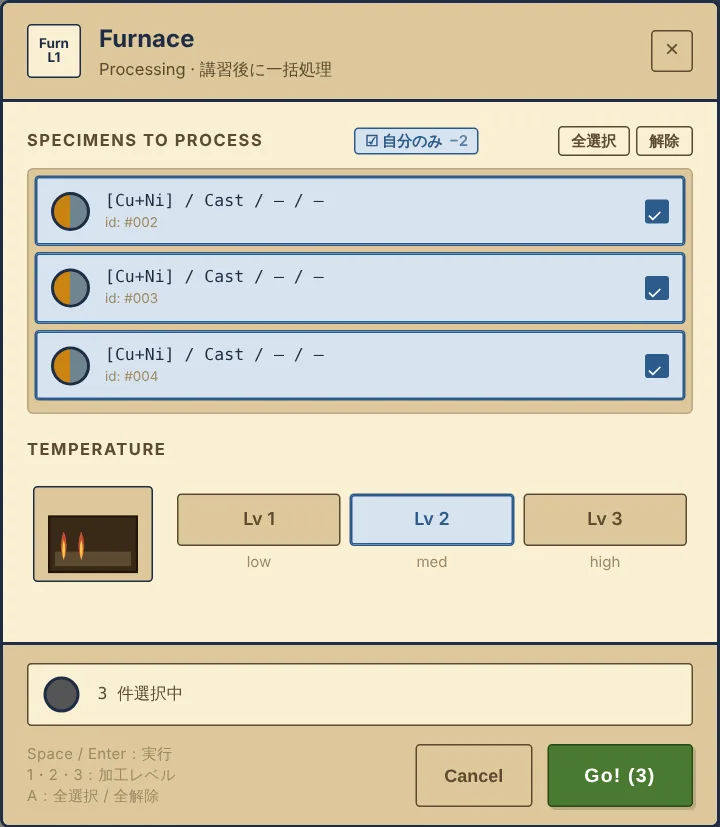
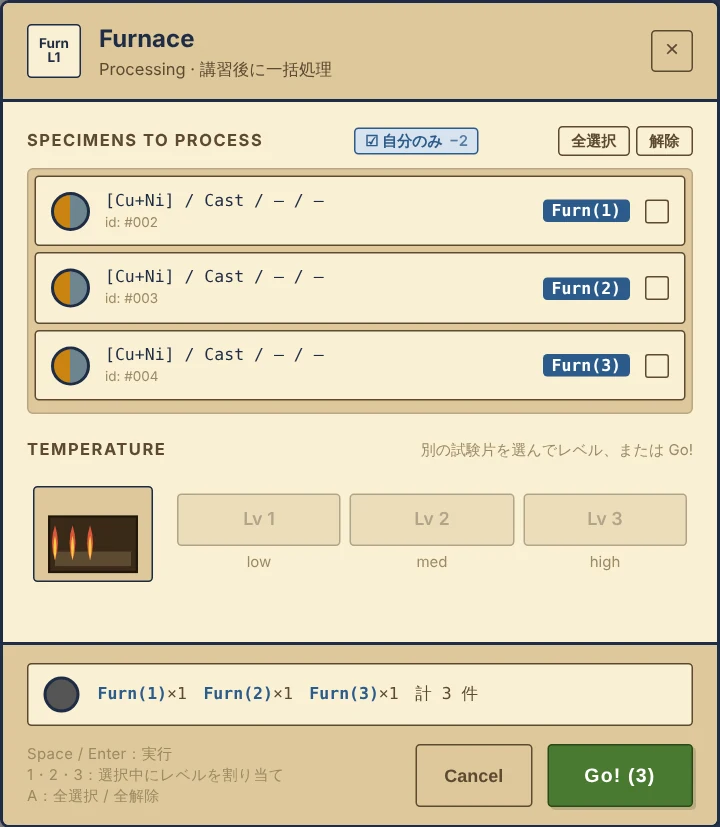
Bring the notes in line with game v67
- 2章 subtitle: data from v67 (unchanged since v63 — checked).
- 1-7: the processing popup now gives levels per specimen; say how, and
  retake own-filter.webp from v67 (three specimens at Lv1/2/3).

Claude-Session: https://claude.ai/code/session_01UWaUzJwC7EiNVx9Ep3UKit

diff --git a/index.html b/index.html
@@ -453,7 +453,7 @@ footer { max-width: 1180px; margin: 0 auto; padding-block: 18px 32px; border-top
         <div class="prose">
           <ul>
             <li>装置のポップアップにある「<b>自分のみ</b>」スイッチで、自分が作った試験片だけを表示できます。Co-Workerの試験片に紛れず、自分の作業に集中できます。</li>
-            <li>同じ組成の試験片を<b>3個一括で作製し、加工条件を3通り（Lv1・2・3）に振り分ける</b>のが鉄板の手順です。</li>
+            <li>同じ組成の試験片を<b>3個一括で作製し、加工条件を3通り（Lv1・2・3）に振り分ける</b>のが鉄板の手順です。加工装置のポップアップで、試験片を選んでからレベルを押すと、その試験片にレベルが割り当てられます。3つに別々のレベルを割り当てて、Go!で一度に処理できます。</li>
           </ul>
           <details class="fold">
             <summary>伝説レシピのヒント（ネタバレあり）</summary>
@@ -461,8 +461,8 @@ footer { max-width: 1180px; margin: 0 auto; padding-block: 18px 32px; border-top
           </details>
         </div>
         <div class="figs">
-          <figure class="s"><img src="img/shots/own-filter.webp" alt="Furnaceのポップアップ。自分のみスイッチがオンで、3件の試験片を選択している" width="480" height="551" loading="lazy">
-            <figcaption>「自分のみ」をオンにすると、Co-Workerの試験片が隠れる</figcaption></figure>
+          <figure class="s"><img src="img/shots/own-filter.webp" alt="Furnaceのポップアップ。自分のみスイッチがオンで、3件の試験片にFurn(1)・Furn(2)・Furn(3)を割り当てている" width="480" height="551" loading="lazy">
+            <figcaption>「自分のみ」をオンにすると、Co-Workerの試験片が隠れる。3つの試験片にLv1・2・3を割り当てて、まとめて実行できる</figcaption></figure>
           <figure class="s"><img src="img/shots/hint-reveal.webp" alt="Discoveryカードでヒントが開いた瞬間" width="240" height="110" loading="lazy">
             <figcaption>一致した部分が、Discoveryカードにヒントとして開く</figcaption></figure>
         </div>
@@ -472,7 +472,7 @@ footer { max-width: 1180px; margin: 0 auto; padding-block: 18px 32px; border-top
     <!-- ================================================================ database -->
     <article class="part" id="db">
       <header><span class="eyebrow">CHAPTER 2</span><h2>各種データベース</h2>
-        <p class="sub">ゲーム本体 v63 のデータから作成しています。</p></header>
+        <p class="sub">ゲーム本体 v67 のデータから作成しています。</p></header>
 
       <section id="equipment">
         <h3><span class="n">2-1</span>装置</h3>
